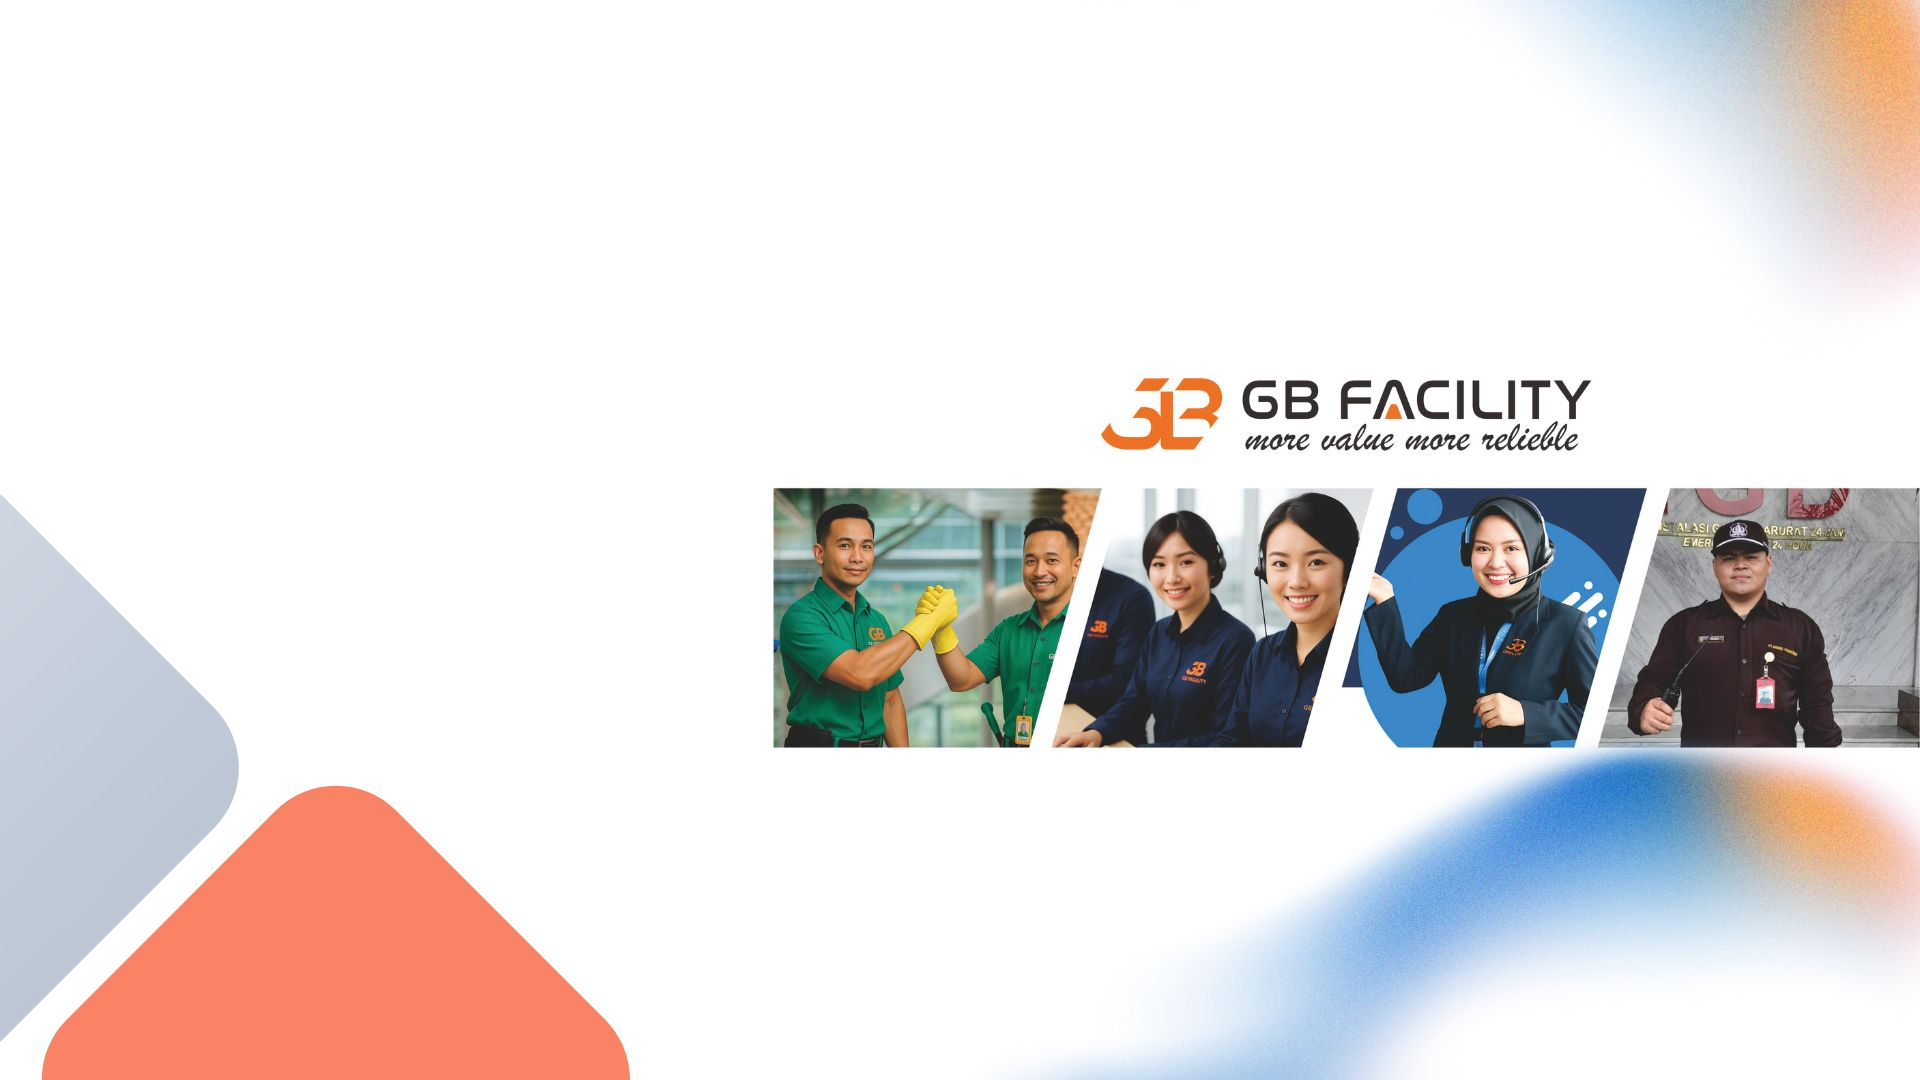
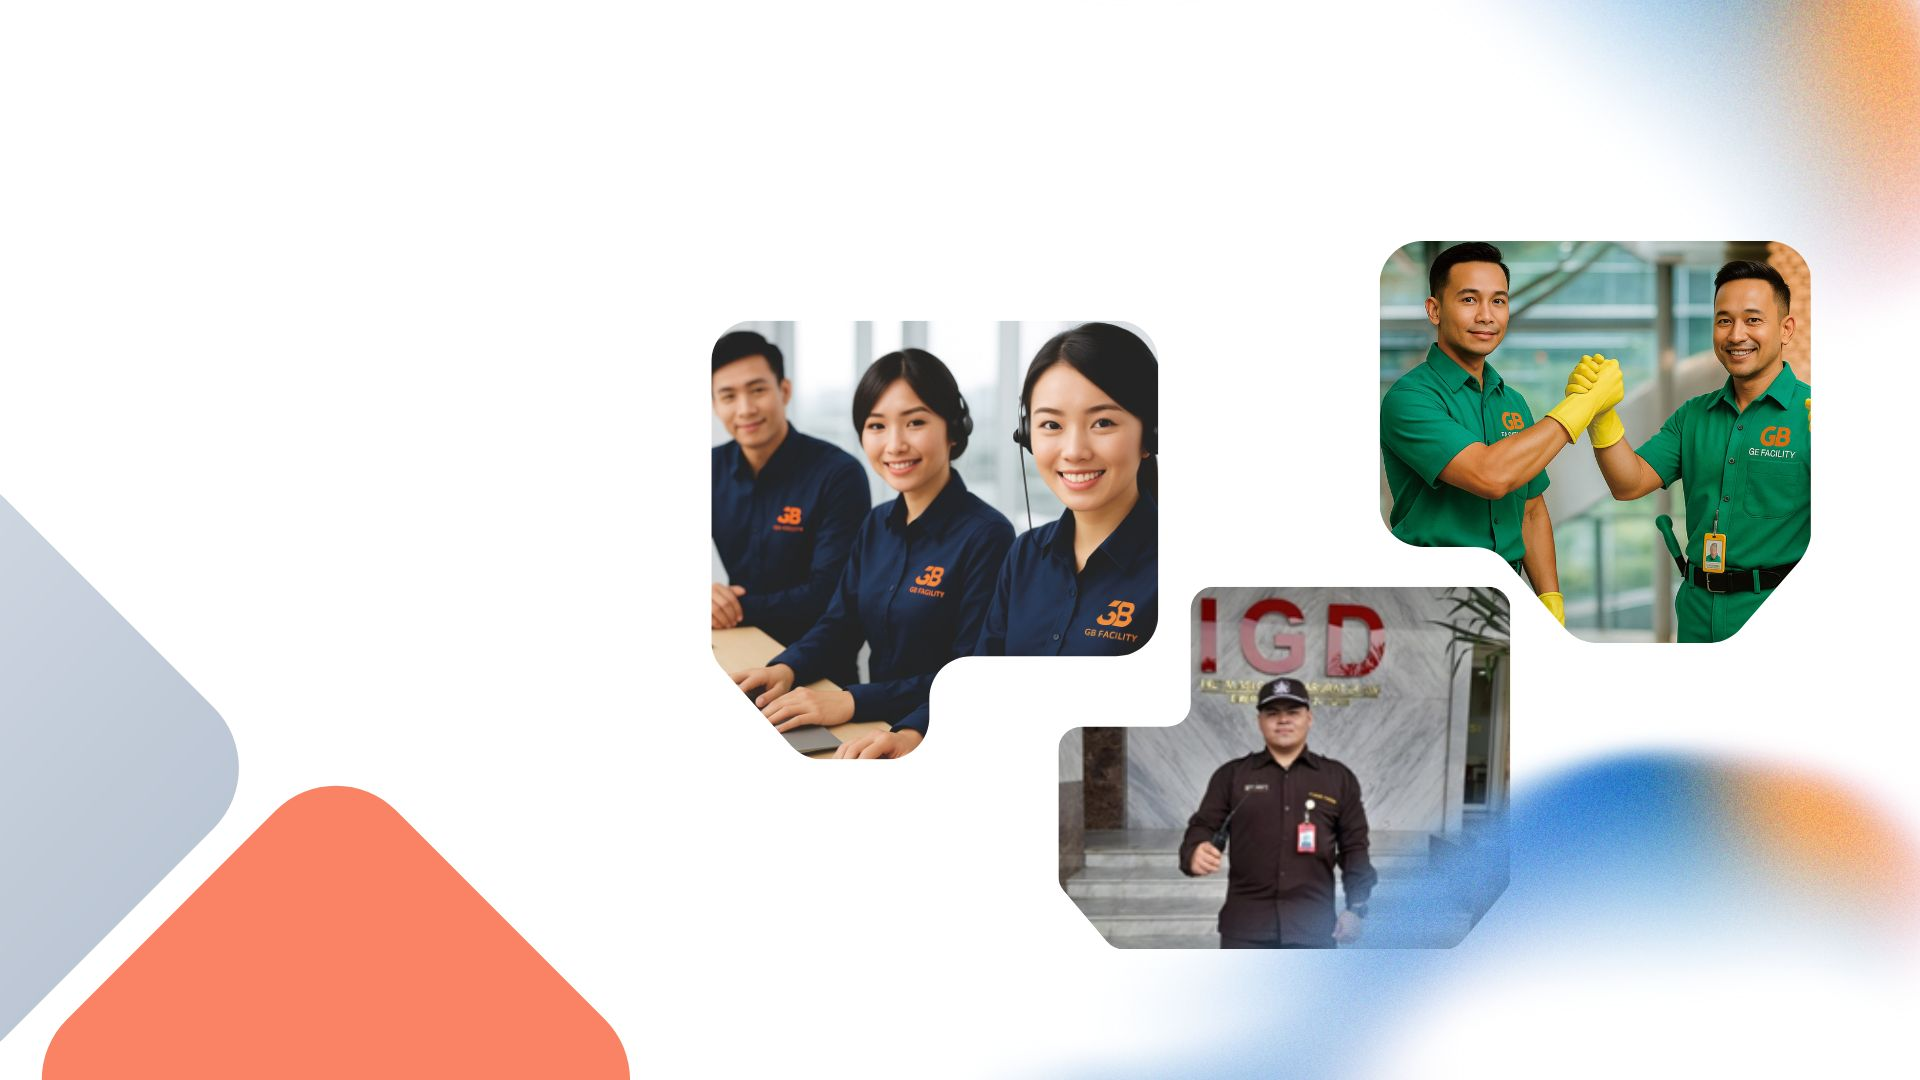
perbaikan bug

Changed region(s): [[0.3438, 0.2139, 1.0, 0.8861]]

diff --git a/src/app/About.tsx b/src/app/About.tsx
@@ -19,9 +19,9 @@ function About() {
               <Image
                 width={500}
                 height={500}
-                src="/images/gbbaner.jpg"
+                src="/images/gbspanduk.jpg"
                 alt="Tentang GB Parking"
-                className="rounded-2xl shadow-2xl object-cover sm:w-96 w-64 sm:right-0"
+                className="rounded-2xl shadow-2xl object-cover w-full sm:right-0"
               />
             </div>
             <div className="text-gray-600 mb-6  sm:text-2xl text-justify ">
@@ -72,7 +72,7 @@ function About() {
                       <Image
                         width={500}
                         height={500}
-                        src="/images/gbbaner.jpg"
+                        src="/images/outsourcing.JPG"
                         alt="Tentang GB Parking"
                         className="rounded-2xl shadow-2xl object-cover sm:w-64 w-32 sm:right-0"
                       />
@@ -113,7 +113,7 @@ function About() {
                       <Image
                         width={500}
                         height={500}
-                        src="/images/gbbaner.jpg"
+                        src="/images/uu.png"
                         alt="Tentang GB Parking"
                         className="rounded-2xl shadow-2xl object-cover sm:w-64 w-32 sm:right-0"
                       />
@@ -146,8 +146,8 @@ function About() {
             </div>
             <div>
               <Image
-                src={"/images/gbbaner.jpg"}
-                className="relative w-96 bg-cover"
+                src={"/images/gbspanduk.jpg"}
+                className="relative w-full bg-cover"
                 width={500}
                 height={500}
                 alt={""}

diff --git a/src/app/Header.tsx b/src/app/Header.tsx
@@ -37,18 +37,18 @@ function Header() {
             : "duration-1000 ease-in-out bg-transparent"
         }`}
       >
-        <div className=" mx-auto flex items-center gap-2 justify-between px-5 sm:px-20 text-xs sm:text-xl py-4">
+        <div className=" mx-auto flex items-center justify-between px-5 sm:px-20 text-xs sm:text-xl py-4">
           <div >
             <Image
               width={500}
               height={500}
               src={"/images/bgicon.png"}
-              className="sm:w-32 w-8"
+              className="sm:w-16 w-8"
               alt={""}
             ></Image>
           </div>
           <div>
-            <ul className="flex gap-2">
+            <ul className="flex sm:gap-5">
               {navlink.map((item, index) => {
                 const isactive = pathname === item.paths;
                 return (
